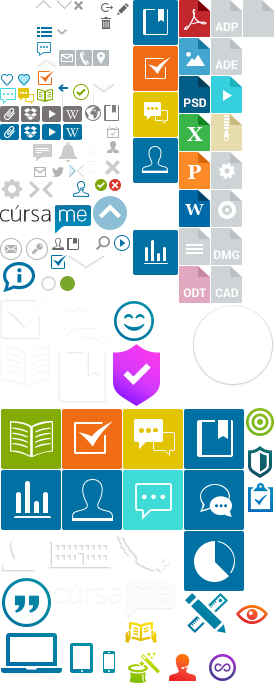
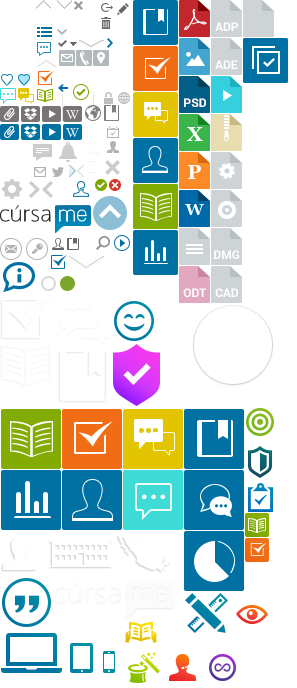
css fix para margen + imagen pack

diff --git a/app/assets/stylesheets/global/_skeleton.scss b/app/assets/stylesheets/global/_skeleton.scss
@@ -499,6 +499,7 @@ body {
 /* Sections Pages
 ----------------------------------*/
 .section-header {
+  margin-bottom: 20px;
 
   .section-header-main {
     padding: 10px;
